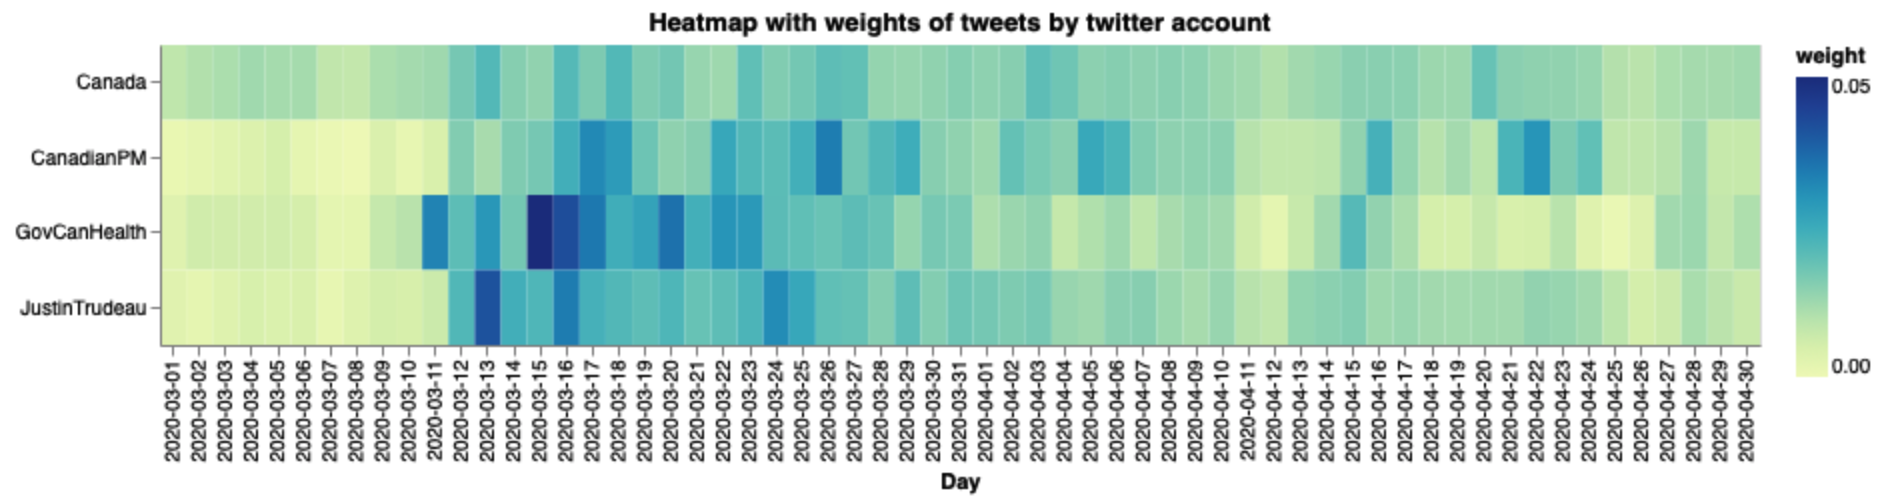
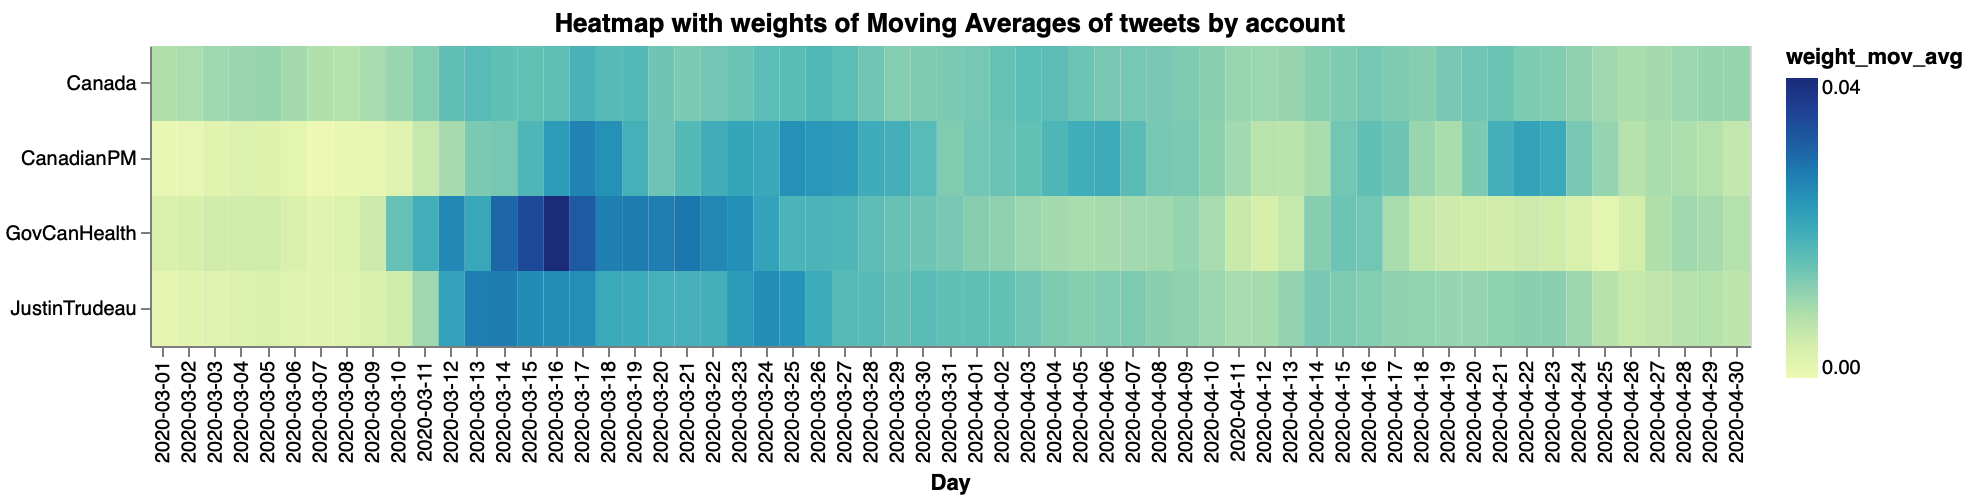
Add text about the heatmap with weights of moving average of tweets with 7-day window

diff --git a/README.md b/README.md
@@ -72,9 +72,10 @@ Most tweets were written in English -around 85% -, followed by Spanish and Frenc
 
 <img src="img/EDA_2_proportion_by_language.png" width="550">
 
-When normalizing the number of tweets by account, we can identify the days with more tweets. 
+We use Moving Averages with 7-day window, followed by normalizing the number of tweets by account. With this analysis we identify the days with more tweets, removing weekly seasonality. 
 __maybe some moving average here would be better? a 3 day window should suffice although a 7 days window would help remove weekly seasonality.__
-In the following plot we can identify a higher number of tweets in all Canadian Government's Twitter account between March 12 and March 29, 2020.
+
+In the following plot while @Canada tweets are homogeneous along the complete period of 61 days, in the case of the other three accounts (@CanadianPM, @GovCanHealth, and @JustinTrudeau) we can identify a higher number of tweets in between March 10th and April 10th, 2020.
 
 <img src="img/EDA_3_heatmap_weights.png" width="780">
 
